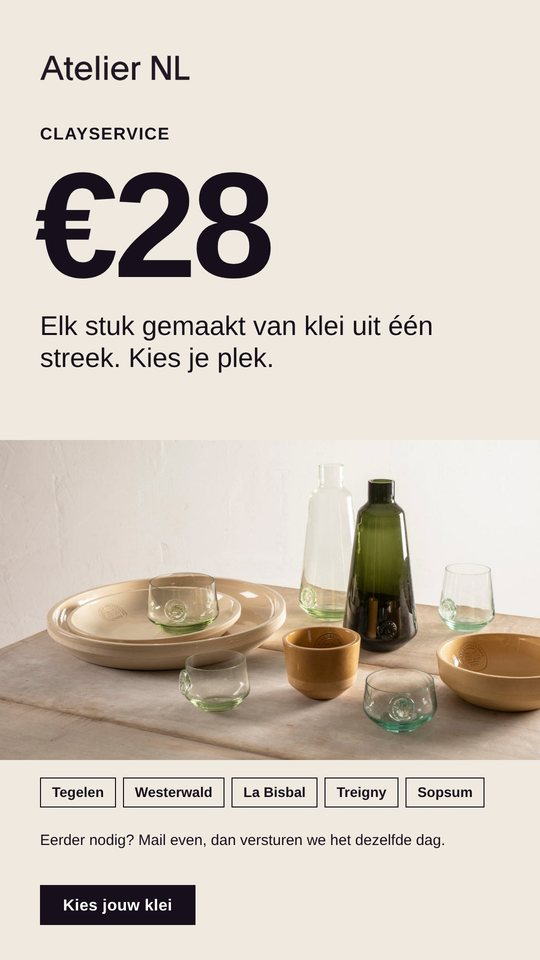
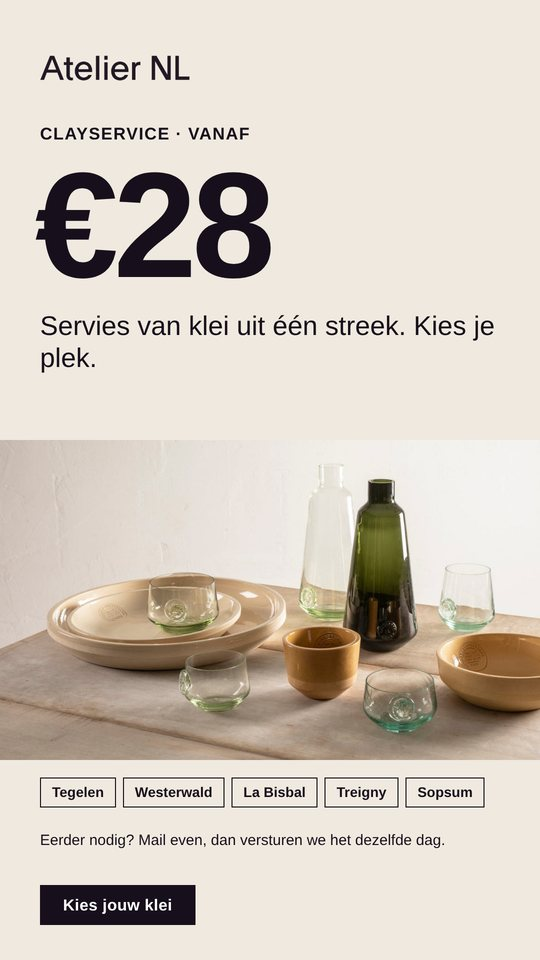
Voorbeeldpagina v7: ateliernl-yt69c (prijs als vanaf-prijs)
Claude-Session: https://claude.ai/code/session_01USTm5Xg5RFPeZvVk5dcoKn

Changed region(s): [[0.0593, 0.3125, 0.8593, 0.4062], [0.3556, 0.125, 0.4741, 0.1562], [0.8889, 0.3125, 0.9185, 0.3438]]

diff --git a/ateliernl-yt69c/index.html b/ateliernl-yt69c/index.html
@@ -55,14 +55,14 @@
 
 <section class="sec" id="advertenties"><div class="wrap">
 <div class="sec-head"><div><p class="eyebrow">Advertenties · 9:16</p><h2>Vijf advertenties, verdeeld over de stappen.</h2></div><p class="hint">Tik op een advertentie om hem groot te bekijken.</p></div>
-<div class="stages" style="--cols:2fr 2fr 1fr"><div class="stage-group" style="--n:2"><div class="stage-head"><span class="stage tof"><i></i>Stap 1 · Kennismaken</span><p>Voor mensen die Atelier NL nog niet kennen.</p></div><ul class="ads" role="list"><li class="ad"><button class="ad-btn" data-i="0" aria-label="Bekijk advertentie 1 groot"><img src="img/ad1-s.jpg" srcset="img/ad1-s.jpg 540w, img/ad1.jpg 1080w" sizes="(min-width: 1100px) 250px, (min-width: 700px) 30vw, 70vw" width="540" height="960" alt="Advertentie 1 voor Atelier NL: Een tafel vol Nederlandse grond" loading="eager" decoding="async"></button><div class="ad-meta"><span class="ad-n">01</span><h3>Een tafel vol Nederlandse grond</h3><span class="ad-angle">Invalshoek: product in gebruik</span><p>Een gedekte tafel laat in één beeld zien hoe het servies en het glas thuis staan. Dat maakt nieuwsgierig voordat iemand weet wie erachter zit.</p></div></li><li class="ad"><button class="ad-btn" data-i="1" aria-label="Bekijk advertentie 2 groot"><img src="img/ad2-s.jpg" srcset="img/ad2-s.jpg 540w, img/ad2.jpg 1080w" sizes="(min-width: 1100px) 250px, (min-width: 700px) 30vw, 70vw" width="540" height="960" alt="Advertentie 2 voor Atelier NL: Twee ontwerpers die de grond in gaan" loading="eager" decoding="async"></button><div class="ad-meta"><span class="ad-n">02</span><h3>Twee ontwerpers die de grond in gaan</h3><span class="ad-angle">Invalshoek: de makers</span><p>Mensen kopen graag van mensen. Jullie portret met vier korte feiten maakt van een glas een verhaal over twee ontwerpers met een missie.</p></div></li></ul></div><div class="stage-group" style="--n:2"><div class="stage-head"><span class="stage mof"><i></i>Stap 2 · Overtuigen</span><p>Voor mensen die jullie kennen, maar nog twijfelen.</p></div><ul class="ads" role="list"><li class="ad"><button class="ad-btn" data-i="2" aria-label="Bekijk advertentie 3 groot"><img src="img/ad3-s.jpg" srcset="img/ad3-s.jpg 540w, img/ad3.jpg 1080w" sizes="(min-width: 1100px) 250px, (min-width: 700px) 30vw, 70vw" width="540" height="960" alt="Advertentie 3 voor Atelier NL: Glas van zand van één plek" loading="lazy" decoding="async"></button><div class="ad-meta"><span class="ad-n">03</span><h3>Glas van zand van één plek</h3><span class="ad-angle">Invalshoek: kenmerken</span><p>Wie twijfelt, wil het verschil snel snappen. Drie vinkjes leggen uit waarom ZandGlas groen is en waarom elke editie een plaatsnaam heeft.</p></div></li><li class="ad"><button class="ad-btn" data-i="3" aria-label="Bekijk advertentie 4 groot"><img src="img/ad4-s.jpg" srcset="img/ad4-s.jpg 540w, img/ad4.jpg 1080w" sizes="(min-width: 1100px) 250px, (min-width: 700px) 30vw, 70vw" width="540" height="960" alt="Advertentie 4 voor Atelier NL: Wat de jury zei" loading="lazy" decoding="async"></button><div class="ad-meta"><span class="ad-n">04</span><h3>Wat de jury zei</h3><span class="ad-angle">Invalshoek: bewijs</span><p>Een echte juryquote van de Dezeen Awards en drie mijlpalen laten zien dat dit werk door kenners wordt gewaardeerd, zonder dat jullie het zelf hoeven te zeggen.</p></div></li></ul></div><div class="stage-group" style="--n:1"><div class="stage-head"><span class="stage bof"><i></i>Stap 3 · Kopen</span><p>Voor wie bijna bestelt.</p></div><ul class="ads" role="list"><li class="ad"><button class="ad-btn" data-i="4" aria-label="Bekijk advertentie 5 groot"><img src="img/ad5-s.jpg" srcset="img/ad5-s.jpg 540w, img/ad5.jpg 1080w" sizes="(min-width: 1100px) 250px, (min-width: 700px) 30vw, 70vw" width="540" height="960" alt="Advertentie 5 voor Atelier NL: ClayService voor €28" loading="lazy" decoding="async"></button><div class="ad-meta"><span class="ad-n">05</span><h3>ClayService voor €28</h3><span class="ad-angle">Invalshoek: instapprijs · zekerheid</span><p>Een laatste duwtje zonder korting te verzinnen: een bord van €28 is een laagdrempelige eerste aankoop, en jullie versturen op verzoek dezelfde dag.</p></div></li></ul></div></div>
+<div class="stages" style="--cols:2fr 2fr 1fr"><div class="stage-group" style="--n:2"><div class="stage-head"><span class="stage tof"><i></i>Stap 1 · Kennismaken</span><p>Voor mensen die Atelier NL nog niet kennen.</p></div><ul class="ads" role="list"><li class="ad"><button class="ad-btn" data-i="0" aria-label="Bekijk advertentie 1 groot"><img src="img/ad1-s.jpg" srcset="img/ad1-s.jpg 540w, img/ad1.jpg 1080w" sizes="(min-width: 1100px) 250px, (min-width: 700px) 30vw, 70vw" width="540" height="960" alt="Advertentie 1 voor Atelier NL: Een tafel vol Nederlandse grond" loading="eager" decoding="async"></button><div class="ad-meta"><span class="ad-n">01</span><h3>Een tafel vol Nederlandse grond</h3><span class="ad-angle">Invalshoek: product in gebruik</span><p>Een gedekte tafel laat in één beeld zien hoe het servies en het glas thuis staan. Dat maakt nieuwsgierig voordat iemand weet wie erachter zit.</p></div></li><li class="ad"><button class="ad-btn" data-i="1" aria-label="Bekijk advertentie 2 groot"><img src="img/ad2-s.jpg" srcset="img/ad2-s.jpg 540w, img/ad2.jpg 1080w" sizes="(min-width: 1100px) 250px, (min-width: 700px) 30vw, 70vw" width="540" height="960" alt="Advertentie 2 voor Atelier NL: Twee ontwerpers die de grond in gaan" loading="eager" decoding="async"></button><div class="ad-meta"><span class="ad-n">02</span><h3>Twee ontwerpers die de grond in gaan</h3><span class="ad-angle">Invalshoek: de makers</span><p>Mensen kopen graag van mensen. Jullie portret met vier korte feiten maakt van een glas een verhaal over twee ontwerpers met een missie.</p></div></li></ul></div><div class="stage-group" style="--n:2"><div class="stage-head"><span class="stage mof"><i></i>Stap 2 · Overtuigen</span><p>Voor mensen die jullie kennen, maar nog twijfelen.</p></div><ul class="ads" role="list"><li class="ad"><button class="ad-btn" data-i="2" aria-label="Bekijk advertentie 3 groot"><img src="img/ad3-s.jpg" srcset="img/ad3-s.jpg 540w, img/ad3.jpg 1080w" sizes="(min-width: 1100px) 250px, (min-width: 700px) 30vw, 70vw" width="540" height="960" alt="Advertentie 3 voor Atelier NL: Glas van zand van één plek" loading="lazy" decoding="async"></button><div class="ad-meta"><span class="ad-n">03</span><h3>Glas van zand van één plek</h3><span class="ad-angle">Invalshoek: kenmerken</span><p>Wie twijfelt, wil het verschil snel snappen. Drie vinkjes leggen uit waarom ZandGlas groen is en waarom elke editie een plaatsnaam heeft.</p></div></li><li class="ad"><button class="ad-btn" data-i="3" aria-label="Bekijk advertentie 4 groot"><img src="img/ad4-s.jpg" srcset="img/ad4-s.jpg 540w, img/ad4.jpg 1080w" sizes="(min-width: 1100px) 250px, (min-width: 700px) 30vw, 70vw" width="540" height="960" alt="Advertentie 4 voor Atelier NL: Wat de jury zei" loading="lazy" decoding="async"></button><div class="ad-meta"><span class="ad-n">04</span><h3>Wat de jury zei</h3><span class="ad-angle">Invalshoek: bewijs</span><p>Een echte juryquote van de Dezeen Awards en drie mijlpalen laten zien dat dit werk door kenners wordt gewaardeerd, zonder dat jullie het zelf hoeven te zeggen.</p></div></li></ul></div><div class="stage-group" style="--n:1"><div class="stage-head"><span class="stage bof"><i></i>Stap 3 · Kopen</span><p>Voor wie bijna bestelt.</p></div><ul class="ads" role="list"><li class="ad"><button class="ad-btn" data-i="4" aria-label="Bekijk advertentie 5 groot"><img src="img/ad5-s.jpg" srcset="img/ad5-s.jpg 540w, img/ad5.jpg 1080w" sizes="(min-width: 1100px) 250px, (min-width: 700px) 30vw, 70vw" width="540" height="960" alt="Advertentie 5 voor Atelier NL: ClayService vanaf €28" loading="lazy" decoding="async"></button><div class="ad-meta"><span class="ad-n">05</span><h3>ClayService vanaf €28</h3><span class="ad-angle">Invalshoek: instapprijs · zekerheid</span><p>Een laatste duwtje zonder korting te verzinnen: servies vanaf €28 is een laagdrempelige eerste aankoop, en jullie versturen op verzoek dezelfde dag.</p></div></li></ul></div></div>
 </div></section>
 
 <section class="sec why-sec" id="waarom"><div class="wrap">
 <p class="eyebrow">Waarom advertenties</p><h2>Zo groeien woonmerken op Instagram.</h2><p class="lead">De meeste mensen ontdekken een nieuw servies niet via Google, maar tijdens het scrollen. Ze zien het een paar keer voorbijkomen, leren het verhaal kennen en kopen dan. Advertenties voor elke stap en een welkomstmail zorgen dat ze bij die beslissing aan Atelier NL denken.</p>
 <div class="stats"><div><strong>20–30%</strong><span>van de online omzet komt bij woonmerken vaak via Instagram en Facebook</span></div><div><strong>100+</strong><span>advertenties heeft Serax nu tegelijk live in Nederland</span></div><div><strong>1× per week</strong><span>nieuwe advertenties testen houdt de kosten per aankoop laag</span></div></div><p class="small">Aantal advertenties: Meta Advertentiebibliotheek, 27-11-2026.</p>
 </div></section>
-<section class="sec mail-sec" id="nieuwsbrief"><div class="wrap mail-grid"><div class="mail-copy"><p class="eyebrow">Nieuwsbrief 1 van 2 · Welkomstmail</p><h2>Welkom bij Atelier NL.</h2><p class="lead">Nu staat er alleen een &#x27;Keep me updated&#x27;-veld op de webshop. Deze welkomstmail is wat een nieuwe aanmelder als eerste krijgt: de gedekte tafel, de drie lijnen met echte prijzen en Nadine en Lonny.</p><ul class="ticks"><li>Hero met jullie foto van de gedekte tafel</li><li>ClayService €28, ZandGlas en Clay Sample €75</li><li>Blok met het portret van Nadine en Lonny</li></ul></div><div class="mail-frame"><div class="mail-head"><div class="mail-av" style="background:#17101C">A</div><div class="mail-from"><strong>Atelier NL</strong><span>Welkom bij Atelier NL</span></div></div><div class="mail-body"><img src="img/mail.jpg" width="1200" alt="Voorbeeldnieuwsbrief voor Atelier NL" loading="lazy" decoding="async"></div><button class="mail-more" type="button">Lees de hele nieuwsbrief</button></div></div></section><section class="sec mail-sec mail-sec-2" id="nieuwsbrief-2"><div class="wrap mail-grid"><div class="mail-copy"><p class="eyebrow">Nieuwsbrief 2 van 2 · Merkverhaal</p><h2>Van zandkorrel tot glas op tafel.</h2><p class="lead">Een mail die in drie stappen uitlegt hoe ZandGlas ontstaat, van het zand op één plek tot het glas met de naam van die plek.</p><ul class="ticks"><li>Hero met jullie foto van de ZandGlas-set</li><li>Drie stappen: zand halen, smelten, plaatsnaam</li><li>Knop naar de ZandGlas-edities</li></ul></div><div class="mail-frame"><div class="mail-head"><div class="mail-av" style="background:#17101C">A</div><div class="mail-from"><strong>Atelier NL</strong><span>Van zandkorrel tot glas</span></div></div><div class="mail-body"><img src="img/mail2.jpg" width="1200" alt="Voorbeeldnieuwsbrief voor Atelier NL" loading="lazy" decoding="async"></div><button class="mail-more" type="button">Lees de hele nieuwsbrief</button></div></div></section>
+<section class="sec mail-sec" id="nieuwsbrief"><div class="wrap mail-grid"><div class="mail-copy"><p class="eyebrow">Nieuwsbrief 1 van 2 · Welkomstmail</p><h2>Welkom bij Atelier NL.</h2><p class="lead">Nu staat er alleen een &#x27;Keep me updated&#x27;-veld op de webshop. Deze welkomstmail is wat een nieuwe aanmelder als eerste krijgt: de gedekte tafel, de drie lijnen met echte prijzen en Nadine en Lonny.</p><ul class="ticks"><li>Hero met jullie foto van de gedekte tafel</li><li>ClayService vanaf €28, ZandGlas en Clay Sample €75</li><li>Blok met het portret van Nadine en Lonny</li></ul></div><div class="mail-frame"><div class="mail-head"><div class="mail-av" style="background:#17101C">A</div><div class="mail-from"><strong>Atelier NL</strong><span>Welkom bij Atelier NL</span></div></div><div class="mail-body"><img src="img/mail.jpg" width="1200" alt="Voorbeeldnieuwsbrief voor Atelier NL" loading="lazy" decoding="async"></div><button class="mail-more" type="button">Lees de hele nieuwsbrief</button></div></div></section><section class="sec mail-sec mail-sec-2" id="nieuwsbrief-2"><div class="wrap mail-grid"><div class="mail-copy"><p class="eyebrow">Nieuwsbrief 2 van 2 · Merkverhaal</p><h2>Van zandkorrel tot glas op tafel.</h2><p class="lead">Een mail die in drie stappen uitlegt hoe ZandGlas ontstaat, van het zand op één plek tot het glas met de naam van die plek.</p><ul class="ticks"><li>Hero met jullie foto van de ZandGlas-set</li><li>Drie stappen: zand halen, smelten, plaatsnaam</li><li>Knop naar de ZandGlas-edities</li></ul></div><div class="mail-frame"><div class="mail-head"><div class="mail-av" style="background:#17101C">A</div><div class="mail-from"><strong>Atelier NL</strong><span>Van zandkorrel tot glas</span></div></div><div class="mail-body"><img src="img/mail2.jpg" width="1200" alt="Voorbeeldnieuwsbrief voor Atelier NL" loading="lazy" decoding="async"></div><button class="mail-more" type="button">Lees de hele nieuwsbrief</button></div></div></section>
 <section class="sec week-sec"><div class="wrap">
 <p class="eyebrow">Ritme</p><h2>Zo kan een week eruitzien.</h2>
 <p class="lead">Dit is een voorbeeld, geen vast pakket. De kracht zit in het ritme: regelmatig nieuwe invalshoeken testen in elke stap, en je nieuwsbrief vast versturen. Wat werkt, doen we vaker.</p>
@@ -78,7 +78,7 @@
 </div></div></section>
 </main>
 <footer class="foot"><div class="wrap"><p>Deze voorbeelden zijn gemaakt door Digital Essence, niet door of in opdracht van Atelier NL. Foto's, namen, reviews en productinformatie zijn van Atelier NL (ateliernl.com) en alleen gebruikt om te laten zien wat er kan. Liever dat deze pagina verdwijnt? Mail <a href="mailto:issey@digitalessence.io">issey@digitalessence.io</a>, dan haal ik hem dezelfde dag offline.</p></div></footer>
-<dialog class="lb" aria-label="Advertenties groot"><div class="lb-track"><figure class="lb-slide"><img src="img/ad1.jpg" width="1080" height="1920" alt="Advertentie 1: Een tafel vol Nederlandse grond" loading="lazy" decoding="async"><figcaption>01 · Kennismaken · Product in gebruik</figcaption></figure><figure class="lb-slide"><img src="img/ad2.jpg" width="1080" height="1920" alt="Advertentie 2: Twee ontwerpers die de grond in gaan" loading="lazy" decoding="async"><figcaption>02 · Kennismaken · De makers</figcaption></figure><figure class="lb-slide"><img src="img/ad3.jpg" width="1080" height="1920" alt="Advertentie 3: Glas van zand van één plek" loading="lazy" decoding="async"><figcaption>03 · Overtuigen · Kenmerken</figcaption></figure><figure class="lb-slide"><img src="img/ad4.jpg" width="1080" height="1920" alt="Advertentie 4: Wat de jury zei" loading="lazy" decoding="async"><figcaption>04 · Overtuigen · Bewijs</figcaption></figure><figure class="lb-slide"><img src="img/ad5.jpg" width="1080" height="1920" alt="Advertentie 5: ClayService voor €28" loading="lazy" decoding="async"><figcaption>05 · Kopen · Instapprijs · zekerheid</figcaption></figure></div>
+<dialog class="lb" aria-label="Advertenties groot"><div class="lb-track"><figure class="lb-slide"><img src="img/ad1.jpg" width="1080" height="1920" alt="Advertentie 1: Een tafel vol Nederlandse grond" loading="lazy" decoding="async"><figcaption>01 · Kennismaken · Product in gebruik</figcaption></figure><figure class="lb-slide"><img src="img/ad2.jpg" width="1080" height="1920" alt="Advertentie 2: Twee ontwerpers die de grond in gaan" loading="lazy" decoding="async"><figcaption>02 · Kennismaken · De makers</figcaption></figure><figure class="lb-slide"><img src="img/ad3.jpg" width="1080" height="1920" alt="Advertentie 3: Glas van zand van één plek" loading="lazy" decoding="async"><figcaption>03 · Overtuigen · Kenmerken</figcaption></figure><figure class="lb-slide"><img src="img/ad4.jpg" width="1080" height="1920" alt="Advertentie 4: Wat de jury zei" loading="lazy" decoding="async"><figcaption>04 · Overtuigen · Bewijs</figcaption></figure><figure class="lb-slide"><img src="img/ad5.jpg" width="1080" height="1920" alt="Advertentie 5: ClayService vanaf €28" loading="lazy" decoding="async"><figcaption>05 · Kopen · Instapprijs · zekerheid</figcaption></figure></div>
 <div class="lb-bar"><button class="lb-prev" aria-label="Vorige">‹</button><span class="lb-count"></span><button class="lb-next" aria-label="Volgende">›</button></div>
 <button class="lb-close" aria-label="Sluiten">✕</button></dialog>
 <script src="../assets/site.js?v=7" defer></script>
